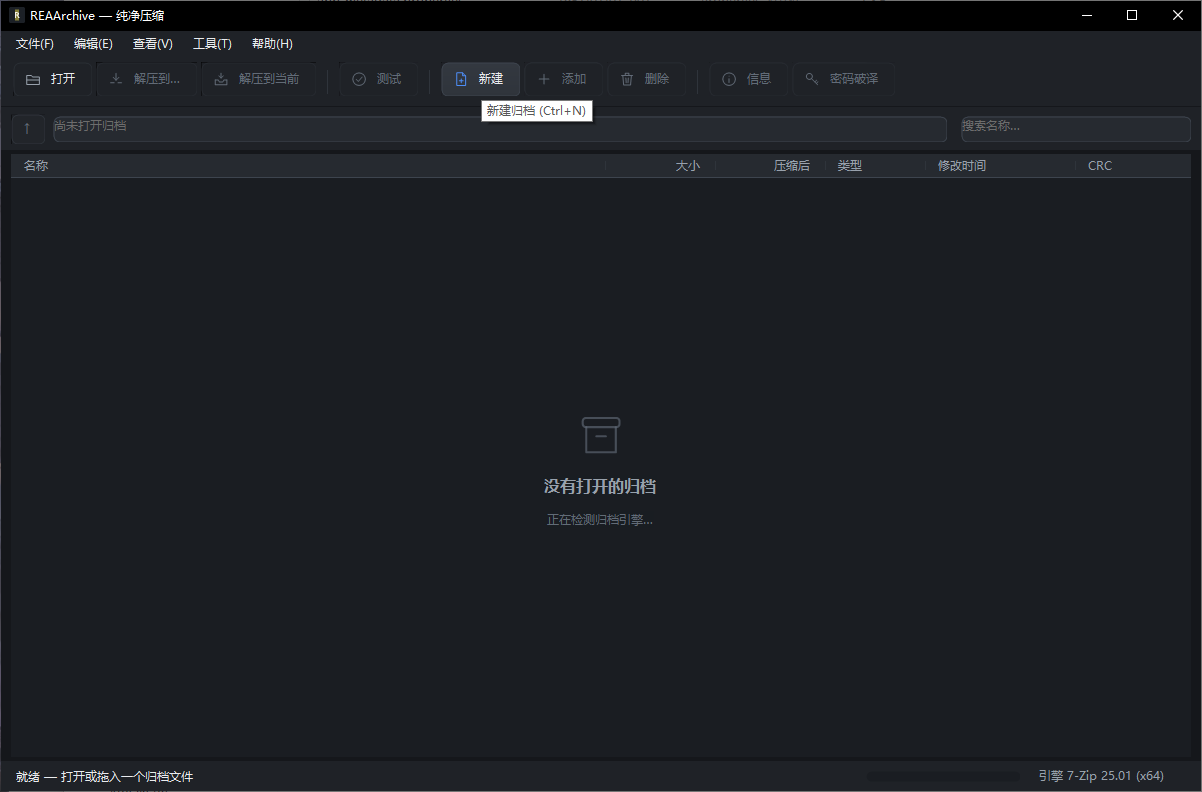
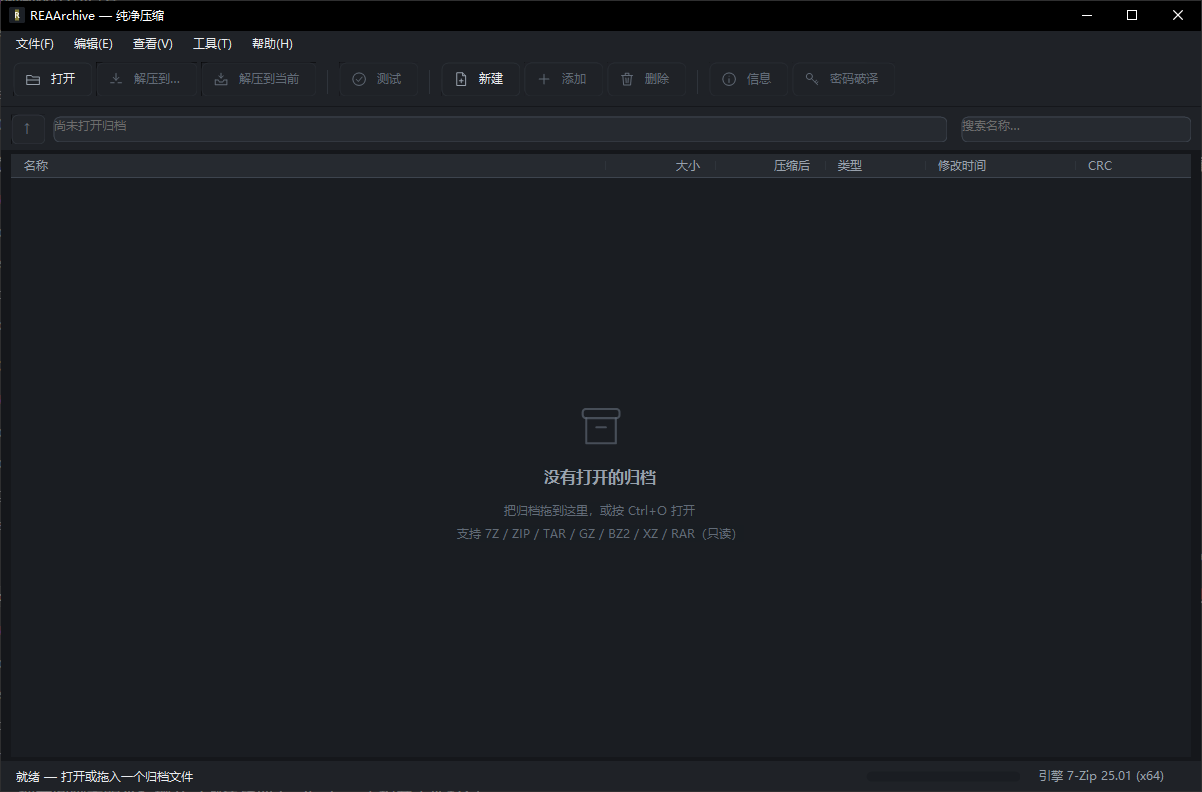
fix: 空态文案赋值后不重绘，引擎就绪后仍显示「正在检测归档引擎…」
ThemedListView.EmptyText / EmptySubText 原为普通自动属性，MainForm 在引擎探测
完成后更新文案，但列表没收到重绘通知，屏幕上一直是旧文案，直到窗口被拖动/缩放
才刷新。改为带 Invalidating 的完整属性。

顺带：qa/visual-check.ps1 增加「等引擎探测收尾」与「截图前把光标挪开」两步，
避免截到过渡文案和残留 hover tooltip。

验证：构建 0 警告 0 错误；视觉验收 5/5；空态截图实测显示
「把归档拖到这里，或按 Ctrl+O 打开 / 支持 7Z / ZIP / TAR / GZ / BZ2 / XZ / RAR（只读）」。

Changed region(s): [[0.3694, 0.5152, 0.6156, 0.697], [0.4002, 0.1212, 0.4925, 0.1515], [0.3694, 0.0606, 0.4309, 0.1212]]

diff --git a/src/REAArchive/Ui/Theme.cs b/src/REAArchive/Ui/Theme.cs
@@ -877,10 +877,34 @@ internal sealed class ThemedListView : ListView
     public int SortColumnIndex { get; set; } = -1;
     [DesignerSerializationVisibility(DesignerSerializationVisibility.Hidden)]
     public bool SortAscending { get; set; } = true;
+    private string _emptyText = "没有打开的归档";
+    private string _emptySubText = "把归档拖到这里，或按 Ctrl+O 打开";
+
+    /// <summary>空态主标题。赋值会触发重绘——否则引擎探测完成后文案变了、屏幕还是旧的。</summary>
     [DesignerSerializationVisibility(DesignerSerializationVisibility.Hidden)]
-    public string EmptyText { get; set; } = "没有打开的归档";
+    public string EmptyText
+    {
+        get => _emptyText;
+        set
+        {
+            if (_emptyText == value) return;
+            _emptyText = value ?? "";
+            Invalidate();
+        }
+    }
+
+    /// <summary>空态副标题（可多行）。赋值会触发重绘。</summary>
     [DesignerSerializationVisibility(DesignerSerializationVisibility.Hidden)]
-    public string EmptySubText { get; set; } = "把归档拖到这里，或按 Ctrl+O 打开";
+    public string EmptySubText
+    {
+        get => _emptySubText;
+        set
+        {
+            if (_emptySubText == value) return;
+            _emptySubText = value ?? "";
+            Invalidate();
+        }
+    }
 
     public ThemedListView()
     {
